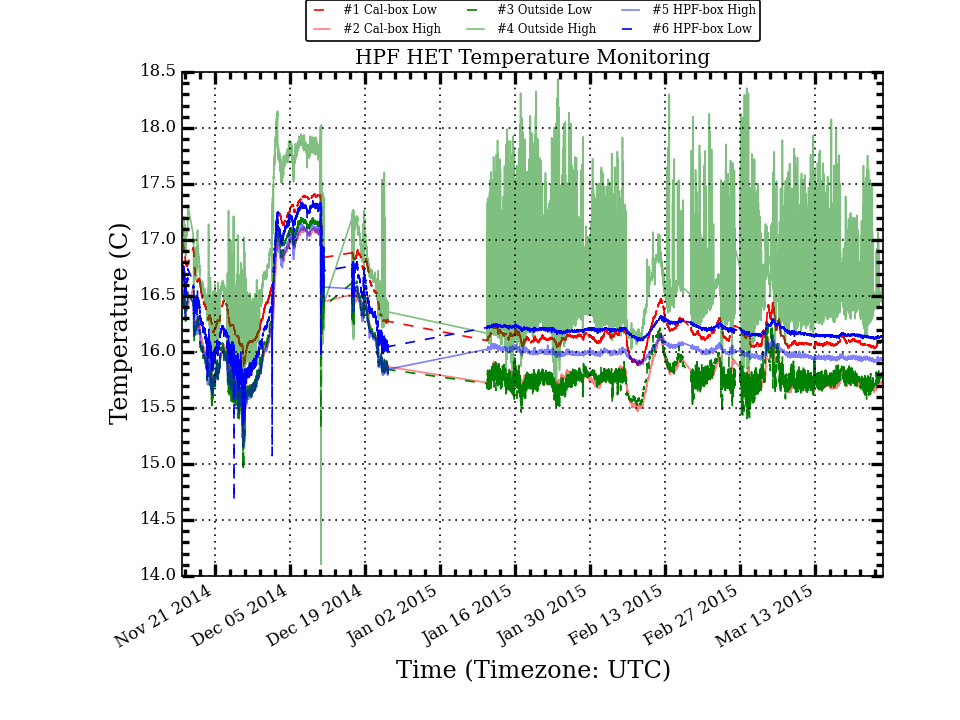
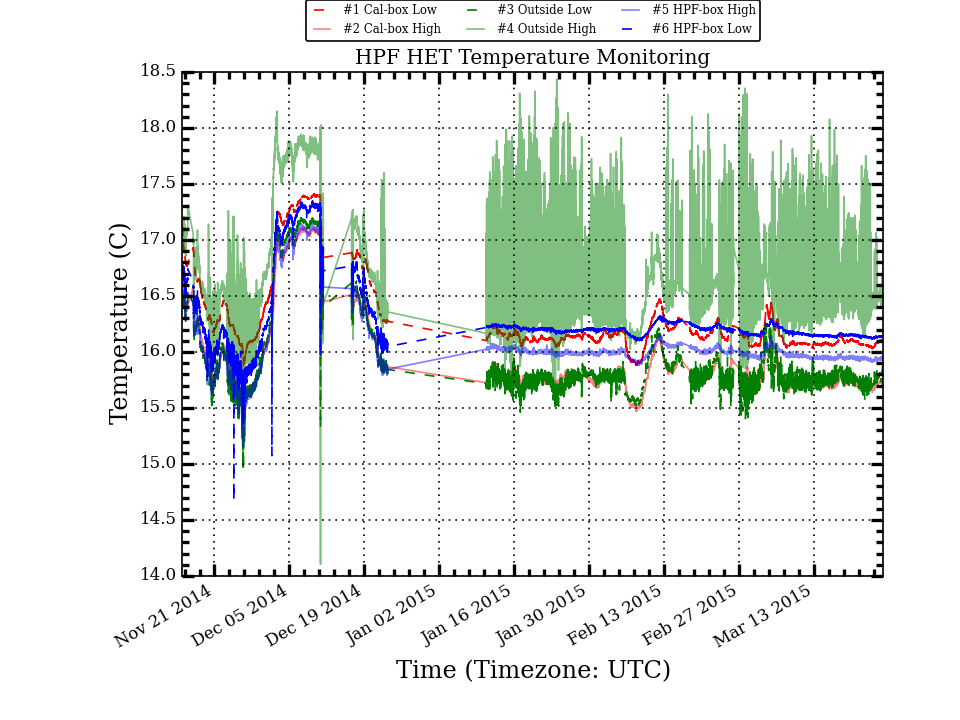
Update HPF Temp Plots

diff --git a/research/hpf_temps/plots/LakeShoreLogTotal_stats.html b/research/hpf_temps/plots/LakeShoreLogTotal_stats.html
@@ -10,8 +10,8 @@
  </TR>
  <TR>
   <TD>Cal_Low</TD>
-  <TD>16.300</TD>
-  <TD>0.361</TD>
+  <TD>16.299</TD>
+  <TD>0.360</TD>
   <TD>16.152</TD>
   <TD>17.410</TD>
   <TD>15.840</TD>
@@ -20,7 +20,7 @@
  <TR>
   <TD>Cal_High</TD>
   <TD>15.934</TD>
-  <TD>0.378</TD>
+  <TD>0.377</TD>
   <TD>15.791</TD>
   <TD>17.114</TD>
   <TD>15.410</TD>
@@ -29,7 +29,7 @@
  <TR>
   <TD>Out_Low</TD>
   <TD>15.935</TD>
-  <TD>0.402</TD>
+  <TD>0.401</TD>
   <TD>15.780</TD>
   <TD>17.201</TD>
   <TD>14.942</TD>
@@ -55,9 +55,9 @@
  </TR>
  <TR>
   <TD>HPF_Low</TD>
-  <TD>16.283</TD>
+  <TD>16.282</TD>
   <TD>0.317</TD>
-  <TD>16.201</TD>
+  <TD>16.200</TD>
   <TD>17.356</TD>
   <TD>14.668</TD>
   <TD>2.688</TD>
